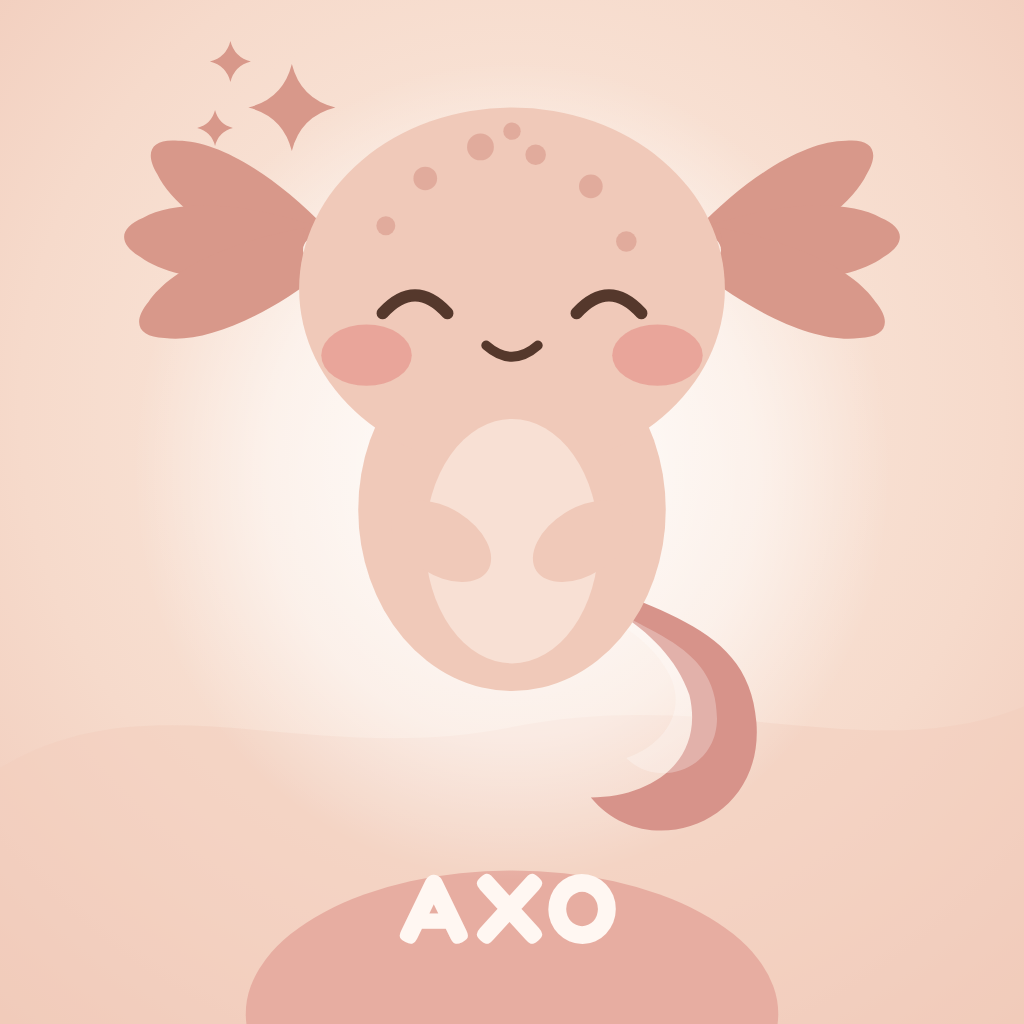
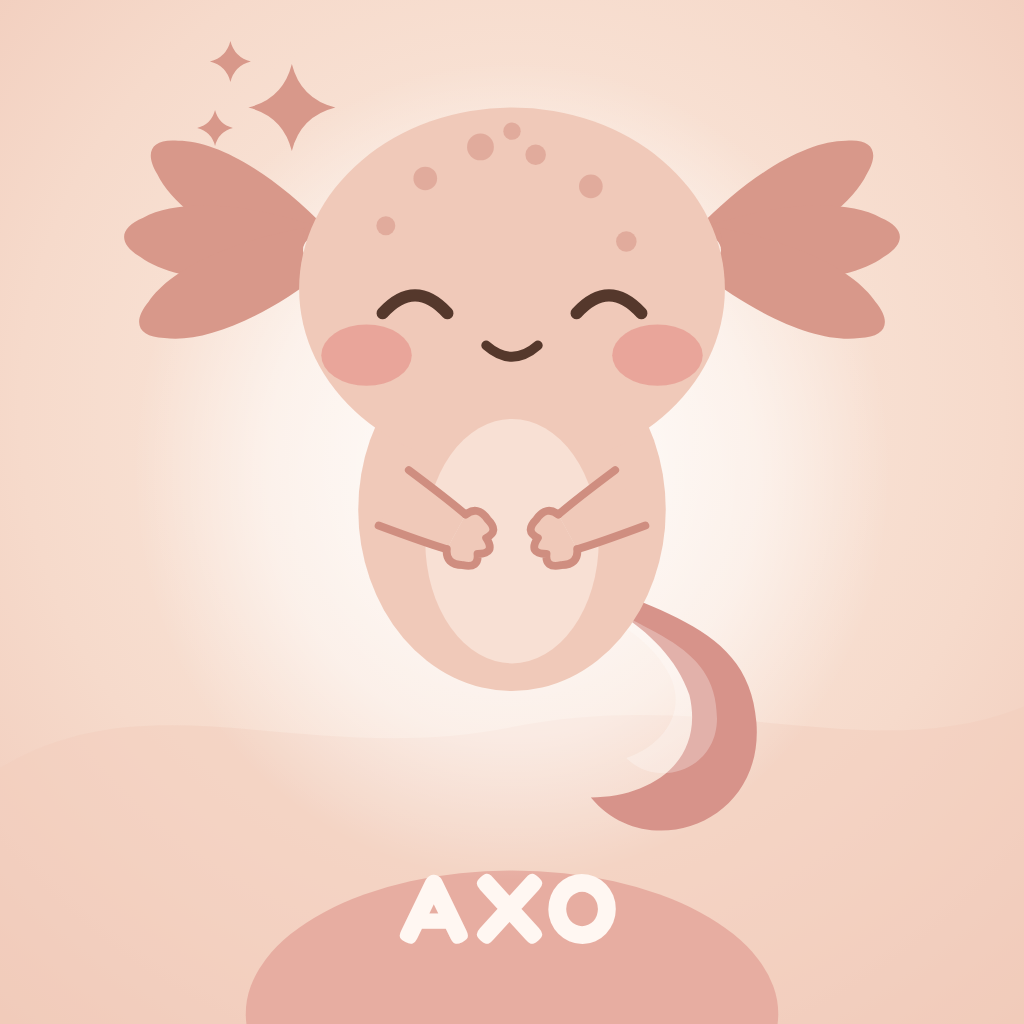
Bracitos como en el ícono original, en el ícono y en toda la app
Los bracitos ahora son dos rayitas con una manita de tres deditos, como
en el ícono de la app actual:
- De siempre: abrazando la pancita.
- Amor y recién nacido: levantados.
- Al comer: uno sostiene la manzanita y el otro se soba la pancita.
- Con ropa: el bracito toma el color de la tela y solo la manita queda
  del color de Axo.
Salen de la orilla del cuerpo, sin rayita de ese lado, así no se ven
sueltos. El ícono y la pantalla de carga usan el mismo dibujo.

Claude-Session: https://claude.ai/code/session_01PFf2A78urzusfm27fjyJWB

Changed region(s): [[0.375, 0.4688, 0.625, 0.5938]]

diff --git a/src/components/axoParts.js b/src/components/axoParts.js
@@ -133,8 +133,8 @@ export function geom({ paletteKey = 'durazno', evo = 'cria', chub = 1 }) {
     sombra: { cy: SUELO + 1, rx: 46 * k, ry: 7 * k },
     cara: CARAS[stage],
     // hombros: pegados a la orilla del torso (cambian con lo ancho del cuerpo)
-    hombroD: { x: 100 + tRx * 0.64, y: 134 },
-    hombroI: { x: 100 - tRx * 0.64, y: 146 },
+    hombroD: { x: 100 + tRx * 0.76, y: 139 },
+    hombroI: { x: 100 - tRx * 0.76, y: 139 },
     clipId: `c${stage}${Math.round(c * 100)}`,
   };
 }
@@ -208,37 +208,47 @@ function Cielo({ abajo }) {
   );
 }
 
-/* ---------- BRACITOS (suaves: solo se insinúan sobre la pancita) ---------- */
-function Brazos({ g, pose = 'abajo' }) {
-  return pose === 'arriba' ? (
-    <G>
-      <Ellipse cx={61} cy={124} rx={8.5} ry={14} fill={g.body} transform="rotate(52 61 124)" />
-      <Ellipse cx={139} cy={124} rx={8.5} ry={14} fill={g.body} transform="rotate(-52 139 124)" />
-    </G>
-  ) : (
-    <G>
-      <Ellipse cx={80} cy={128} rx={9} ry={13} fill={g.body} transform="rotate(-34 80 128)" />
-      <Ellipse cx={122} cy={158} rx={9} ry={13} fill={g.body} transform="rotate(28 122 158)" />
-    </G>
-  );
-}
-
-// Bracito suave, apenas insinuado como en el dibujo original: un óvalo del color del cuerpo,
-// sin rayita y sin manita aparte. Se nota porque pasa por encima de la pancita clara.
-// Va del hombro hacia donde apoya la mano; como es del color del cuerpo, nunca se ve suelto.
-// Con ropa, el bracito es la manga: toma el color de la tela, apenas más oscuro para que se insinúe.
+/* ---------- BRACITOS (como en el ícono original: dos rayitas y una manita de tres deditos) ---------- */
+// Con ropa, el bracito es la manga: toma el color de la tela y solo la manita queda del color de Axo.
 const TELA = { jersey: '#006847', sarape: '#F3E2C7', hoodieRojo: '#D7263D', hoodieAzul: '#2E6FD6', playeraRaya: '#F7F7F7', poloRosa: '#F3A6BE', chivas: '#FFFFFF', azulDiag: '#5FB4E4', pumas: '#FFFFFF' };
 
+// Va del hombro (pegado a la orilla del cuerpo, sin rayita de ese lado) hasta la manita.
 function Bracito({ g, hombro, mano, outfit }) {
   const dx = mano.x - hombro.x;
   const dy = mano.y - hombro.y;
   const L = Math.hypot(dx, dy);
-  const ang = (Math.atan2(-dx, dy) * 180) / Math.PI;
+  const ang = (Math.atan2(dy, dx) * 180) / Math.PI;
+  const m = L - 7; // donde empieza la manita
   const tela = TELA[outfit];
+  const raya = { stroke: tela ? '#00000038' : g.pal.gill, strokeWidth: 2, fill: 'none', strokeLinecap: 'round', strokeLinejoin: 'round' };
+  const manita = `M${m} -5 Q${L - 5.5} -8.6 ${L - 1.5} -6.6 Q${L + 2.6} -5.4 ${L + 0.4} -2.3 Q${L + 4.6} 0 ${L + 0.4} 2.3 Q${L + 2.6} 5.4 ${L - 1.5} 6.6 Q${L - 5.5} 8.6 ${m} 5`;
   return (
     <G transform={`translate(${hombro.x} ${hombro.y}) rotate(${ang})`}>
-      <Ellipse cx={0} cy={L / 2} rx={9} ry={L / 2 + 5} fill={tela || g.body} />
-      {tela && <Ellipse cx={0} cy={L / 2} rx={9} ry={L / 2 + 5} fill="#000000" opacity={0.13} />}
+      <Path d={`M0 -8 Q${L / 2} -6.2 ${m} -5 L${m} 5 Q${L / 2} 6.2 0 8 Z`} fill={tela || g.body} />
+      <Path d={`M0 -8 Q${L / 2} -6.2 ${m} -5`} {...raya} />
+      <Path d={`M${m} 5 Q${L / 2} 6.2 0 8`} {...raya} />
+      <Path d={`${manita} Z`} fill={g.body} />
+      <Path d={manita} stroke={g.pal.gill} strokeWidth={2} fill="none" strokeLinecap="round" strokeLinejoin="round" />
+    </G>
+  );
+}
+
+// Bracitos de siempre: abrazando la pancita (como en el ícono) o levantados (amor / recién nacido)
+function Brazos({ g, pose = 'abajo', outfit }) {
+  const i = g.hombroI;
+  const d = g.hombroD;
+  if (pose === 'arriba') {
+    return (
+      <G>
+        <Bracito g={g} hombro={{ x: i.x + 4, y: 134 }} mano={{ x: i.x - 15, y: 113 }} outfit={outfit} />
+        <Bracito g={g} hombro={{ x: d.x - 4, y: 134 }} mano={{ x: d.x + 15, y: 113 }} outfit={outfit} />
+      </G>
+    );
+  }
+  return (
+    <G>
+      <Bracito g={g} hombro={i} mano={{ x: 92, y: 151 }} outfit={outfit} />
+      <Bracito g={g} hombro={d} mano={{ x: 108, y: 151 }} outfit={outfit} />
     </G>
   );
 }
@@ -258,7 +268,7 @@ export function Comiendo({ g, outfit }) {
         <Circle cx={122} cy={119} r={1.2} fill="#F7B26B" />
       </G>
       <G transform={g.T}>
-        <Bracito g={g} hombro={g.hombroI} mano={{ x: 92, y: 132 }} outfit={outfit} />
+        <Bracito g={g} hombro={g.hombroI} mano={{ x: 90, y: 133 }} outfit={outfit} />
       </G>
     </G>
   );
@@ -269,7 +279,7 @@ export function Comiendo({ g, outfit }) {
 export function BrazoSoba({ g, outfit }) {
   return (
     <G transform={g.T}>
-      <Bracito g={g} hombro={g.hombroD} mano={{ x: 108, y: 160 }} outfit={outfit} />
+      <Bracito g={g} hombro={g.hombroD} mano={{ x: 107, y: 158 }} outfit={outfit} />
     </G>
   );
 }
@@ -327,14 +337,13 @@ export function CabezaBase({ g, mood }) {
   );
 }
 
-/* ---------- PANCITA, BRACITOS y ROPA (van encima de la cabeza, como en el dibujo original) ---------- */
+/* ---------- PANCITA, ROPA y BRACITOS (van encima de la cabeza; los bracitos, encima de la ropa) ---------- */
 // brazos: 'abajo' | 'arriba' | null (null cuando come: ahí los bracitos van aparte, animados)
 export function Frente({ g, outfit = 'ninguno', brazos = 'abajo' }) {
   const { tRx } = g;
   return (
     <G transform={g.T}>
       <Ellipse cx={100} cy={150} rx={g.bRx} ry={30} fill="#ffffff" opacity={0.4} />
-      {brazos && <Brazos g={g} pose={brazos} />}
       {outfit === "jersey" && (() => { const jw = tRx * 1.28; const cx = 100; return (
         <G>
           {/* cuerpo verde */}
@@ -482,6 +491,7 @@ export function Frente({ g, outfit = 'ninguno', brazos = 'abajo' }) {
           </G>
         );
       })()}
+      {brazos && <Brazos g={g} pose={brazos} outfit={outfit} />}
     </G>
   );
 }
